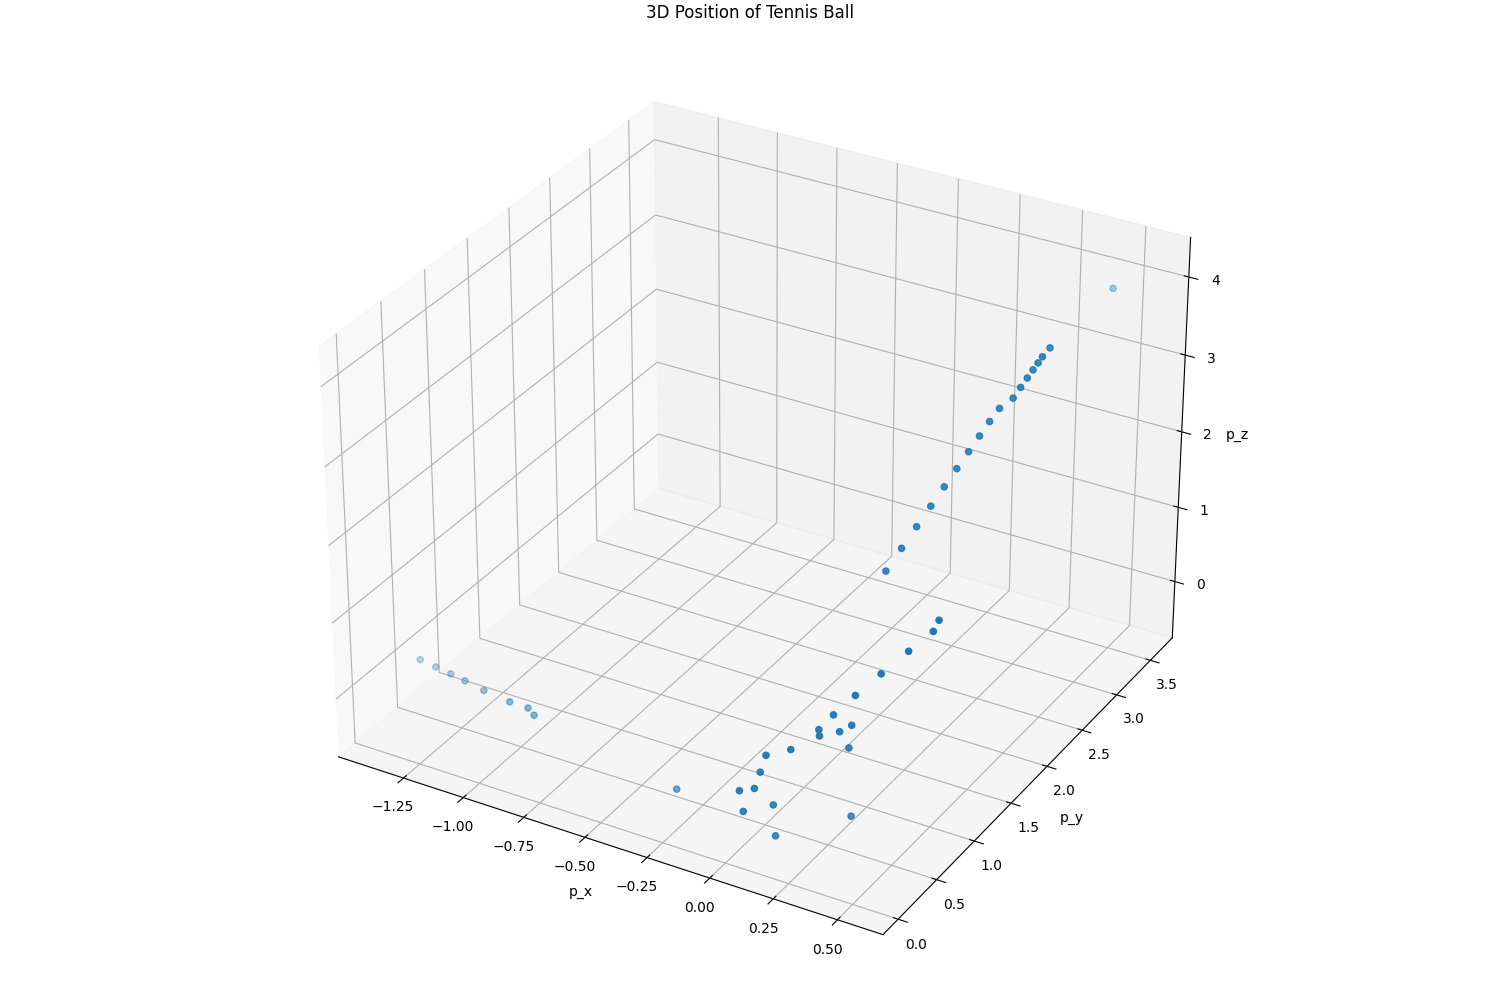
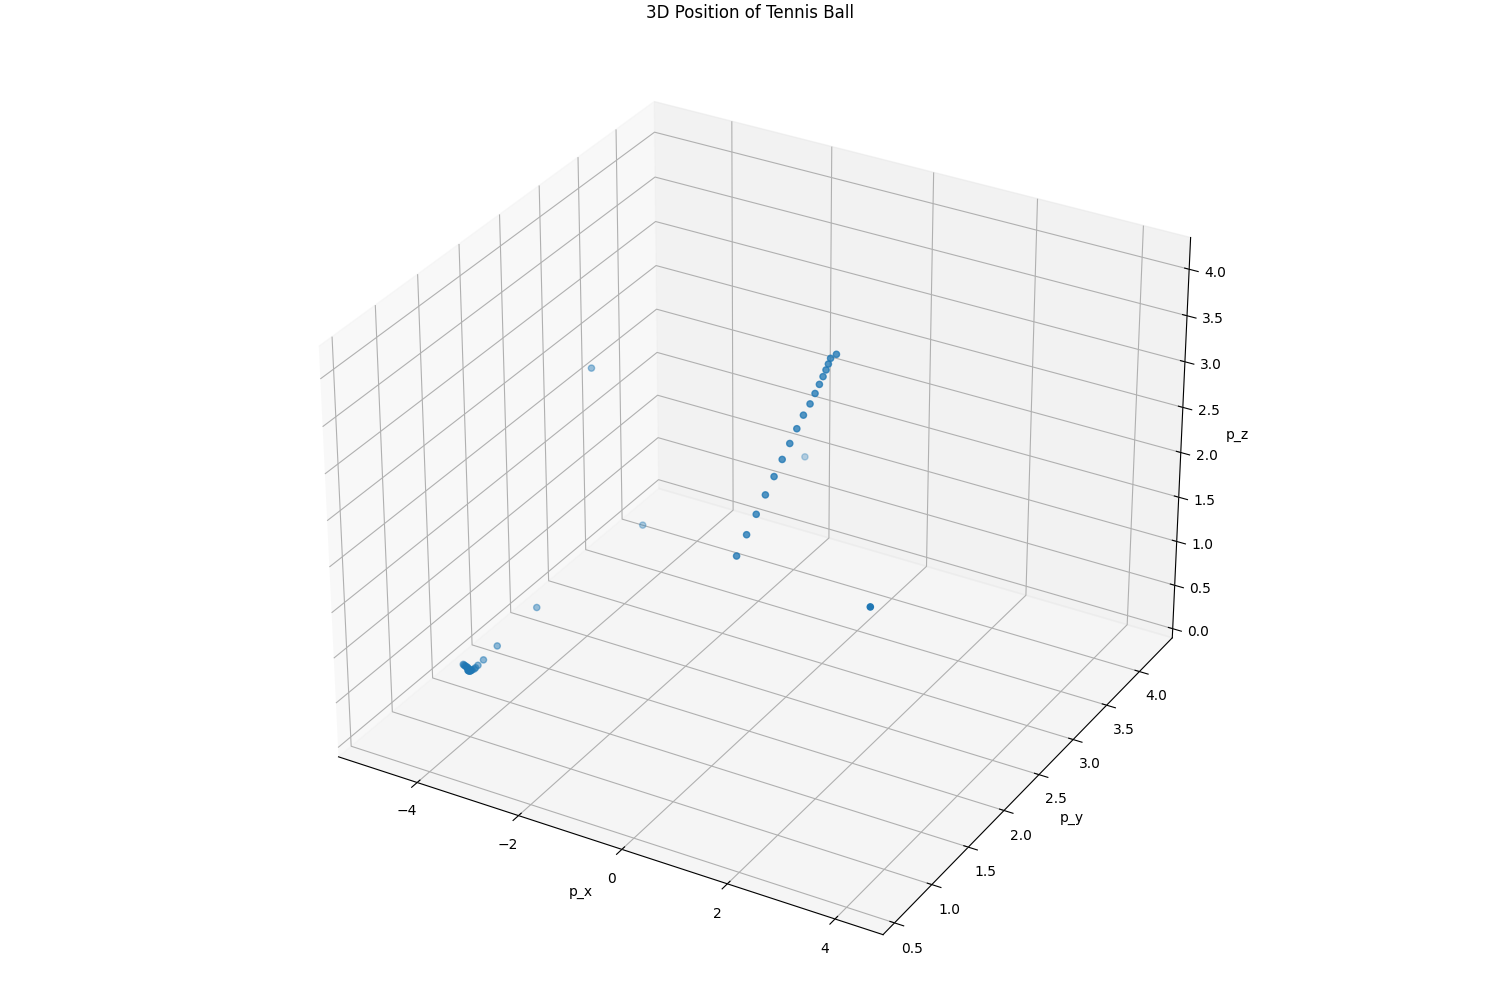
Changing noise matrices

diff --git a/TrackingFilter3D/TrackingFilter3D.py b/TrackingFilter3D/TrackingFilter3D.py
@@ -20,13 +20,13 @@ class TennisBallTracker3D:
             points = JulierSigmaPoints(6)
             self.filter = UnscentedKalmanFilter(6, 3, self.delta_t, TennisBallTracker3D.hx, TennisBallTracker3D.fx, points)
         self.filter.x = np.array([0.0, 4.25, 1.0, 0.0, 0.0, 0.0])
-        self.filter.R = np.identity(3) * 0.01
+        self.filter.R = np.identity(3) * 0.05
         self.filter.Q = np.identity(6)
         self.filter.Q[:3, :3] *= 1.0
-        self.filter.Q[3:, 3:] *= 5.0
+        self.filter.Q[3:, 3:] *= 2.0
 
-        self.filter.P[:3, :3] *= 2.0
-        self.filter.P[3:, 3:] *= 0.5
+        self.filter.P[:3, :3] *= 1.0
+        self.filter.P[3:, 3:] *= 2.0
 
         self.state_history = None
         self.confidence_low_history = None
